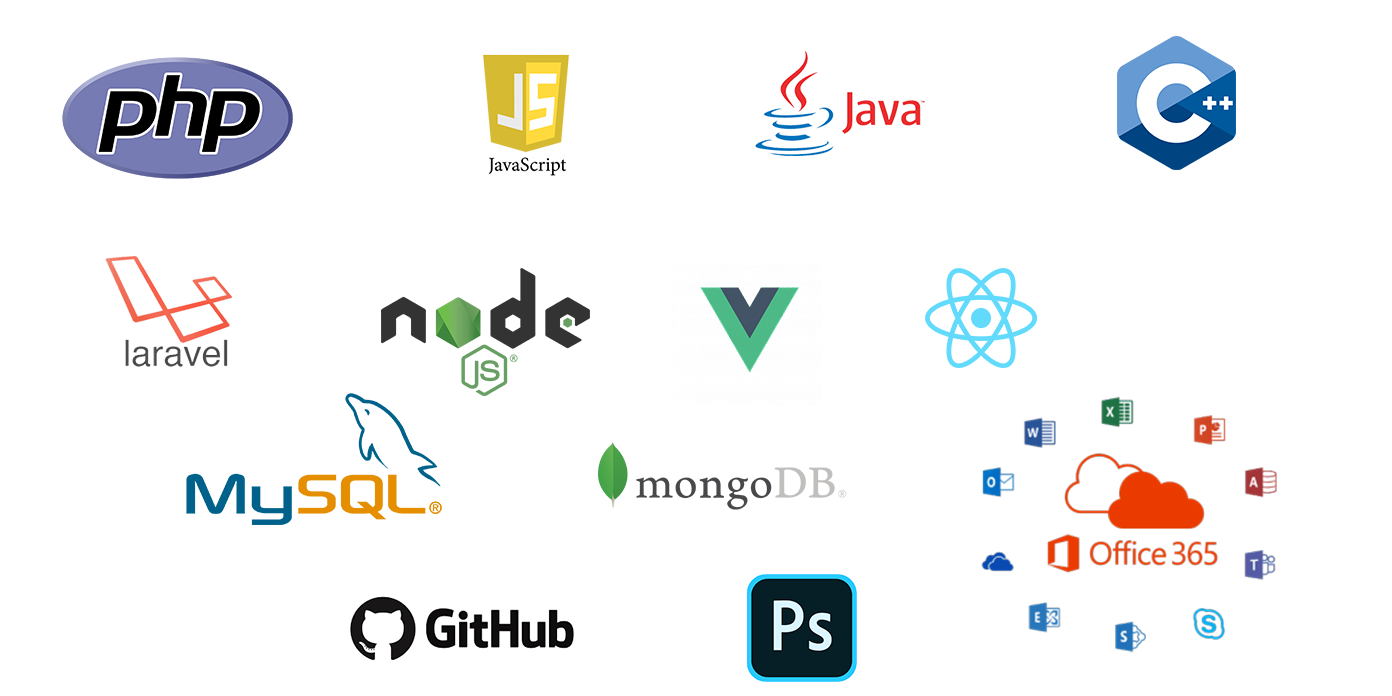
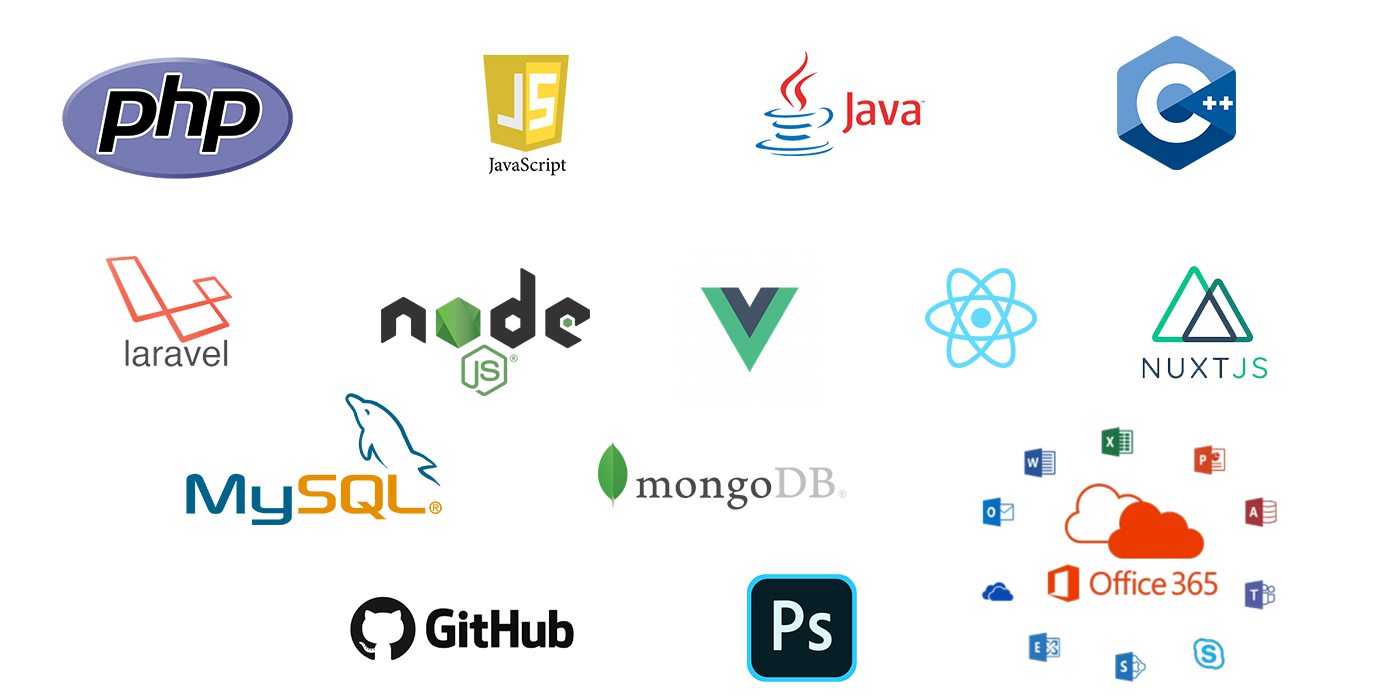
ajout Rotten Tomatoes

Changed region(s): [[0.6796, 0.5733, 0.9267, 0.9957], [0.8032, 0.3922, 0.9267, 0.5431]]

diff --git a/src/components/Lander.vue b/src/components/Lander.vue
@@ -5,12 +5,15 @@
             <div class="container-fliud">
                 <img alt="Cyril Cordier - Web dev" class="rounded-circle" src="../images/Cyril_CORDIER.jpg" height="200">
                 <h1>Cyril CORDIER</h1>
-                <h3>Developeur / Intégrateur Web Full Stack</h3>
+                <h3>Développeur / Intégrateur Web Full Stack</h3>
                 <p>Bienvenue sur mon portfolio où vous trouverez les sites que j'ai conçu ou les projets de groupe auquels j'ai participé 
-                    <br>dans le cadre de ma formation en cursus intensif Dev&Go avec la Coding Academy by Epitech</p>
+                    <br>dans le cadre de ma formation en cursus intensif Dev&Go et Code&Go avec la Coding Academy by Epitech</p>
                     <a href="https://www.coding-academy.fr/dev-go/" target="blank"><img alt="logo epitech"  src="../images/CODING_LOGO.png" height="50"></a>
                 <!-- <button type="button" class="btn btn-primary btn-lg" data-toggle="modal" data-target=".bd-example-modal-lg">Contact</button> -->
-                <br>
+                <br><br>
+                <h5>Je suis actuellement en recherche d'un stage de 4 à 6 mois (à partir du 26 octobre 2020), <br>
+                de préférence sur des projets Laravel/VueJs/Nuxt, mais ouvert également à la découverte de nouvelles technos !</h5>
+                <br><br>
                 <button type="button" class="btn btn-primary btn-lg" onClick="location.href='mailto:cyril.cordier@gmail.com?subject=Contact depuis le site Portfolio'" style="margin-top:3rem">Contact</button>
 
             </div>
@@ -21,7 +24,6 @@
             <h1>Portfolio</h1>
             <p>Voici quelques projets réalisés, actuellement en ligne. <br>
             Les projets sont consultables sur mon github : <a href="https://github.com/cyril-cordier/" target="blank">https://github.com/cyril-cordier/</a>
-                
             </p>
             <div class="container">
                 <div class="row">
@@ -29,8 +31,8 @@
                     <div class="col-md-12">
                             <div class="card">
                                 <div class="card-head">
-                                    <img alt="logos technos" src="../images/technos_tcus.png" style="width:20rem">
-                                    <a href="https://tc95us.fr" target="blank"><img alt="logos technos" src="../images/accueil.png" style="width:20rem"></a>
+                                    <img alt="logos technos" src="../images/tcus/technos_tcus.png" style="width:20rem">
+                                    <a href="https://tc95us.fr" target="blank"><img alt="logos technos" src="../images/tcus/accueil.png" style="width:20rem"></a>
                                     <h2 style="margin-top:2rem">Projet de fin de formation DEV&Go</h2>
                                 </div>
                                 <hr>
@@ -40,6 +42,24 @@
                                         <br>Ce projet, développé avec un back-end Laravel et un front-end VueJs est amené à évoluer au fur et à mesure de l'apprentissage de nouvelles technologies.
                                     </p>
                                     <button type="button" class="btn btn-outline-secondary" onClick="location.href='https://tc95us.fr'" target="blank" >Visiter le site</button>
+                                </div>
+                            </div>
+                            <br>
+                    </div>
+                    <div class="col-md-12">
+                            <div class="card">
+                                <div class="card-head">
+                                    <img alt="logos technos" src="../images/rotten_tomatoes/technos_RT.png" style="width:20rem">
+                                    <a href="http://nuxt-tomatoes.herokuapp.com/" target="blank"><img alt="logos technos" src="../images/rotten_tomatoes/rotten_tomatoes.png" style="width:20rem"></a>
+                                    <h2 style="margin-top:2rem">Projet NuxtJs - Rotten Tomatoes</h2>
+                                </div>
+                                <hr>
+                                <div class="card-body">
+                                    <p>
+                                        Pour ce projet NuxtJs, c'est en équipe de 4 dev que nous avons reproduit le site "Rotten Tomatoes", site de critiques de films, basé sur l'API 'The movie DataBase (TMDB)'
+                                        <br>Pour ce projet, le back et le front sont intégrés dans Nuxt, avec un back ExpressJs et des données stockées via le cloud MongoDB (Atlas).
+                                    </p>
+                                    <button type="button" class="btn btn-outline-secondary" onClick="location.href='http://nuxt-tomatoes.herokuapp.com/'" target="blank" >Visiter le site</button>
                                 </div>
                             </div>
                             <br>
